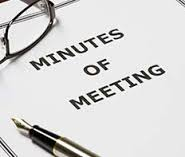
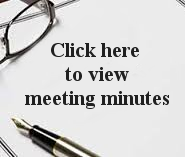
Google idoc changes

Changed region(s): [[0.1351, 0.1783, 0.9189, 0.7134], [0.1351, 0.2293, 0.2432, 0.3312]]

diff --git a/public/features/parish-council/parish-council-meetings.html b/public/features/parish-council/parish-council-meetings.html
@@ -1,20 +1,14 @@
-<div>
-    <div><img src="/web/features/parish-council/img/minutes.png"></div>
-
-    <div layout="row" style="display: flex; width: 900px; margin: 0 auto;">
-            <div flex="33"></div>
-            <div flex="33">
-
-                <div class="btn-sm pc_btn_link" ngf-select="pcc.uploadMinutes($file)">
-                    Upload Minutes <i class="material-icons">file_upload</i>
-                </div>
-
-            </div>
-        </div>
+<div ng-controller="ParishCouncilController as pcc" class="text-content flex-container flex-container-row flex-cols-top pc-idocs">
+    <div>
+        <iframe
+            src="https://docs.google.com/document/d/1fC8ATCh6ZMpp4J67yc-g2f4dMVl3JCohphciQalyJMw/pub?embedded=true&anticache=" +
+            Math.round(Math.random() * 10000000);></iframe>
     </div>
-    <div style="width: 550px;">
-        <h1 class="text-center">{{ pcc.calendarTitle }}</h1>
-
-
+    <div>date:{{pcc.antiCache}}</div>
+    <div>
+        <a href ="https://drive.google.com/drive/folders/0B5mg3C3GfH8dTGoyQTNKTXpKamc?usp=sharing">
+            <img src="/web/features/parish-council/img/minutes.png">
+        </a>
     </div>
 </div>
+

diff --git a/public/features/parish-council/parish-council.controller.js b/public/features/parish-council/parish-council.controller.js
@@ -24,6 +24,7 @@
         pcc.pages = [];
         pcc.title = "Horsley Parish Council";
         pcc.subtitle = "";
+        pcc.antiCache = "D."+Date.now();
         pcc.feature = "parish-council";
         let autoUpload = false;
         let acceptFileTypes = "|pdf|doc|docx";
@@ -77,9 +78,15 @@
                     pageName:   'councillors',
                 },
                 {
+                    title:      'Parish Council Boundaries',
+                    subtitle:   'Map of Horsley Parish',
+                    pageName:   'map'
+                },
+                {
                     title:      'Meetings',
                     subtitle:   'Meeting schedules, agendas and minutes',
                     pageName:   'meetings',
+                    noCache:    'true'
                 },
             ];
             FileUploadService.initialiseSyncFilter(pcc.uploader,pcc.maxQueueSize,acceptFileTypes);

diff --git a/public/features/village-hall/village-hall-3.html b/public/features/village-hall/village-hall-3.html
@@ -1,10 +1,16 @@
-<div ng-controller="VillageHallController as vhc" class="flex-container flex-container-row">
-    <div style="width: 800px">
+<div class="text-content flex-container flex-container-row">
+    <div>
         <h3 class="text-center">How to Book the Village Hall</h3>
         <br>
         <div class="row">
             We will be introducing an on-line booking calendar/diary shortly.
             In the meantime, if you wish to book the hall then please contact Karen Butt (<a href="mailto:bookings@horsleyparish.co.uk">bookings@horsleyparish.co.uk</a>).
         </div>
+    </div>
+</div>
+<br>
+<div class="text-content flex-container flex-container-row">
+    <div>
+        <iframe src="https://calendar.google.com/calendar/embed?src=villagehall%40horsleyparish.co.uk&ctz=Europe/London" style="border: 0" width="800" height="600" frameborder="0" scrolling="no"></iframe>
     </div>
 </div>

diff --git a/public/features/page-tabs/page-tabs.directive.js b/public/features/page-tabs/page-tabs.directive.js
@@ -39,7 +39,11 @@
                  * @param path
                  */
                 function goto(page) {
-                    $location.path(pl.feature).search('page',page.pageName);
+                    if (page.noCache) {
+                        $location.path(pl.feature).search('page',page.pageName).search('tmp',Math.round(Math.random() * 10000000));
+                    } else {
+                        $location.path(pl.feature).search('page',page.pageName).search('tmp',);
+                    }
                 }
 
             }

diff --git a/public/features/parish-council/parish-council.css b/public/features/parish-council/parish-council.css
@@ -40,4 +40,23 @@
     height: 250px;
     margin-bottom: -40px;
 }
-
+.pc-idocs div {
+    vertical-align: top;
+}
+.pc-idocs iframe {
+    position: relative;
+    border: none;
+    display: block;
+    width: 640px;
+    height: 900px;
+}
+.pc-idocs img {
+    padding-top: 80px;
+}
+.pc-map iframe {
+    position: relative;
+    border: none;
+    display: block;
+    width: 640px;
+    height: 480px;
+}

diff --git a/public/css/main.css b/public/css/main.css
@@ -157,6 +157,12 @@ body #page-wrapper {
 .flex-list div  {
     padding: 0px 30px 8px 30px;
 }
+.flex-cols-top {
+    align-items: flex-start;
+}
+.flex-cols-top div {
+    padding: 10px 10px 10px 10px;
+}
 .flex-cols div {
     padding: 10px 10px 10px 10px;
     align-items: center;

diff --git a/public/features/parish-council/parish-council-map.html b/public/features/parish-council/parish-council-map.html
@@ -1,0 +1,5 @@
+<div class="text-content flex-container flex-container-row">
+    <div class="pc-map">
+        <iframe src="https://www.google.com/maps/d/embed?mid=1LqUtRb4aVQ5av7Ft5SGafbKhvb8"></iframe>
+    </div>
+</div>
